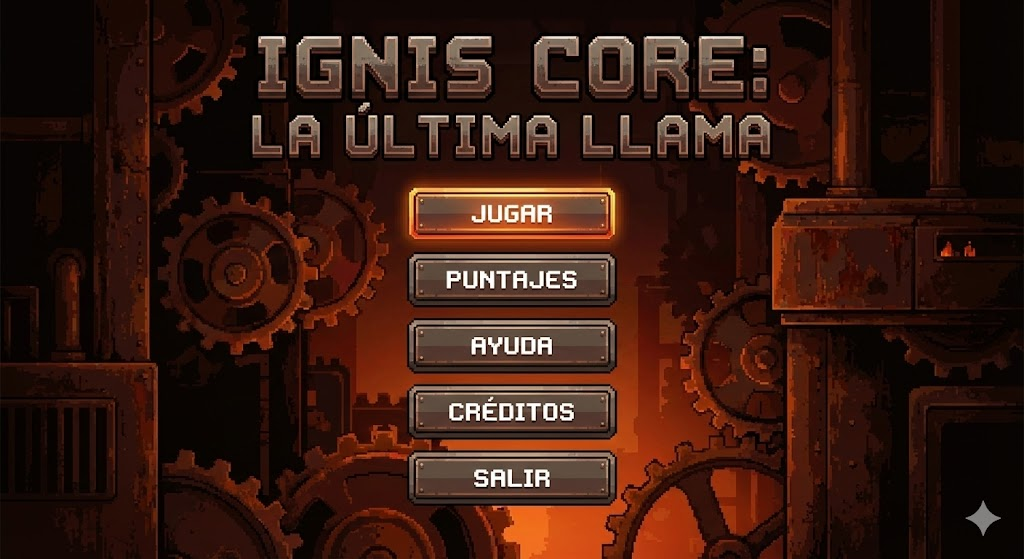
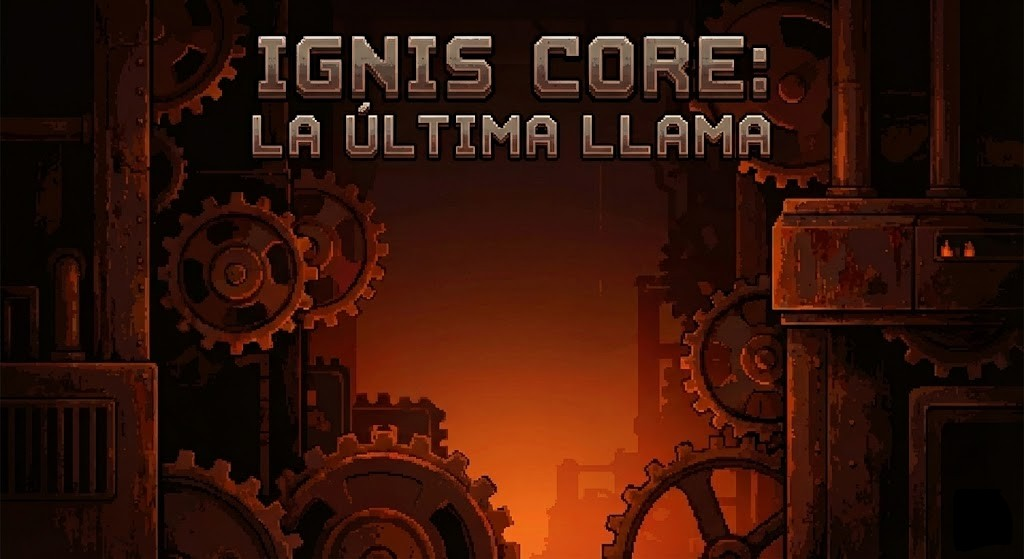
View of menu and help

Changed region(s): [[0.375, 0.3041, 0.625, 0.9123], [0.9375, 0.8819, 0.9688, 0.9428], [0.9062, 0.4258, 0.9688, 0.4562]]

diff --git a/src/menu.py b/src/menu.py
@@ -52,19 +52,18 @@ class Menu:
         # Estado interno del menú (Main, Help, Credits)
         self.sub_menu = 'main' 
 
-    def draw_main(self):
-        self.screen.fill(COLOR_BG)
-        
-        # Título con sombra
-        title_surf = self.font_title.render(TITLE, True, COLOR_PLAYER)
-        title_rect = title_surf.get_rect(center=(SCREEN_WIDTH // 2, 150))
-        
-        # Sombra simple
-        shadow_surf = self.font_title.render(TITLE, True, (0, 0, 0))
-        shadow_rect = shadow_surf.get_rect(center=(SCREEN_WIDTH // 2 + 4, 150 + 4))
-        self.screen.blit(shadow_surf, shadow_rect)
-        self.screen.blit(title_surf, title_rect)
+        # Cargar y escalar la imagen de fondo
+        self.background_image = pygame.image.load('assets/graphics/menu.jpg').convert()
+        self.background_image = pygame.transform.scale(self.background_image, (SCREEN_WIDTH, SCREEN_HEIGHT))
 
+        # Cargar y escalar la imagen de fondo para la sección de Ayuda
+        self.help_image = pygame.image.load('assets/graphics/help.jpg').convert()
+        self.help_image = pygame.transform.scale(self.help_image, (SCREEN_WIDTH, SCREEN_HEIGHT))
+
+    def draw_main(self):
+        # Dibujar la imagen de fondo primero
+        self.screen.blit(self.background_image, (0, 0))
+        
         # Botones
         mouse_pos = pygame.mouse.get_pos()
         for btn in self.buttons:
@@ -72,28 +71,8 @@ class Menu:
             btn.draw(self.screen)
 
     def draw_help(self):
-        self.screen.fill(COLOR_BG)
-        lines = [
-            "--- CONTROLES ---",
-            "",
-            "FLECHAS : Moverse",
-            "ESPACIO : Saltar",
-            "Z       : Atacar (Martillo)",
-            "X       : Dash (Impulso)",
-            "C       : Ventilar (Enfriar)",
-            "",
-            "--- MECANICA ---",
-            "¡Cuidado con el calor!",
-            "Atacar sube tu temperatura.",
-            "Si te sobrecalientas, pierdes vida.",
-            "",
-            "Presiona ESC para volver"
-        ]
-        
-        for i, line in enumerate(lines):
-            surf = self.font_button.render(line, True, COLOR_TEXT)
-            rect = surf.get_rect(center=(SCREEN_WIDTH//2, 100 + i * 40))
-            self.screen.blit(surf, rect)
+        # Dibujar la imagen de fondo para ayuda
+        self.screen.blit(self.help_image, (0, 0))
 
     def draw_credits(self):
         self.screen.fill(COLOR_BG)
